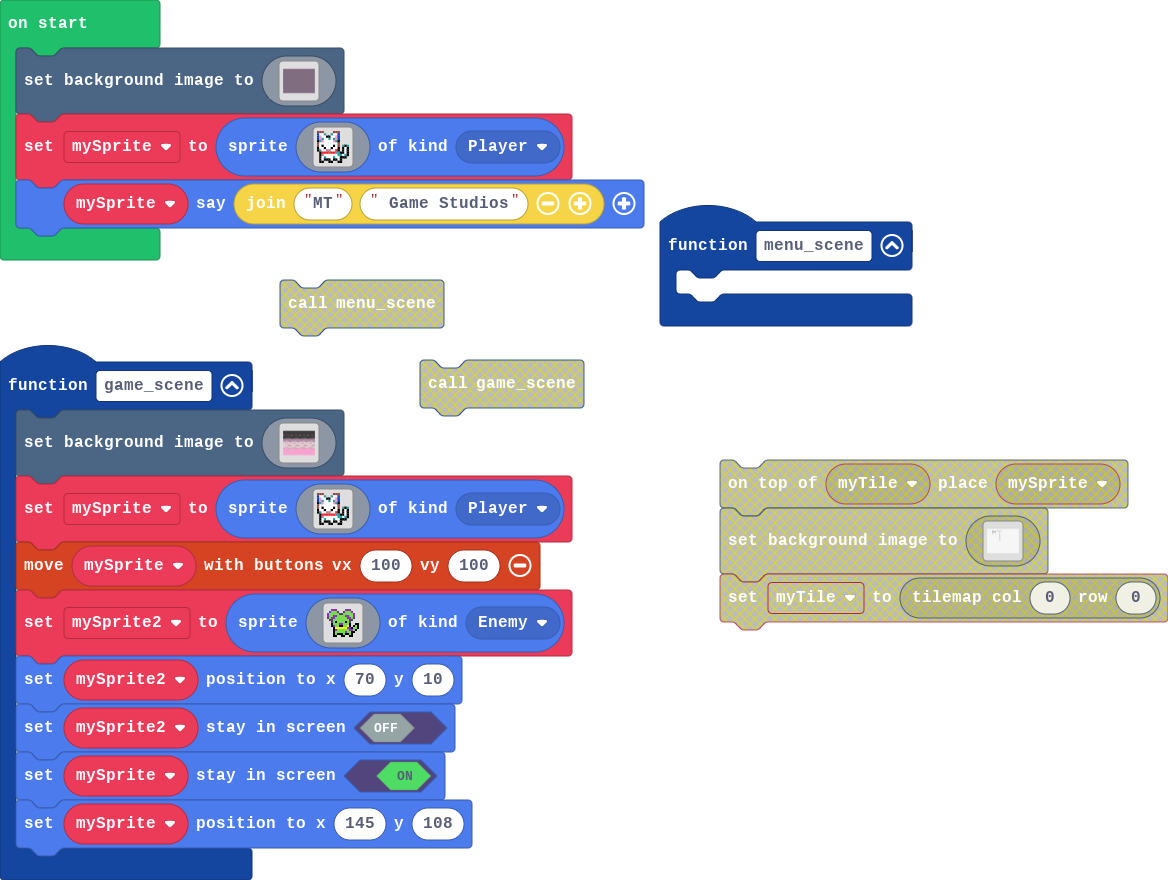
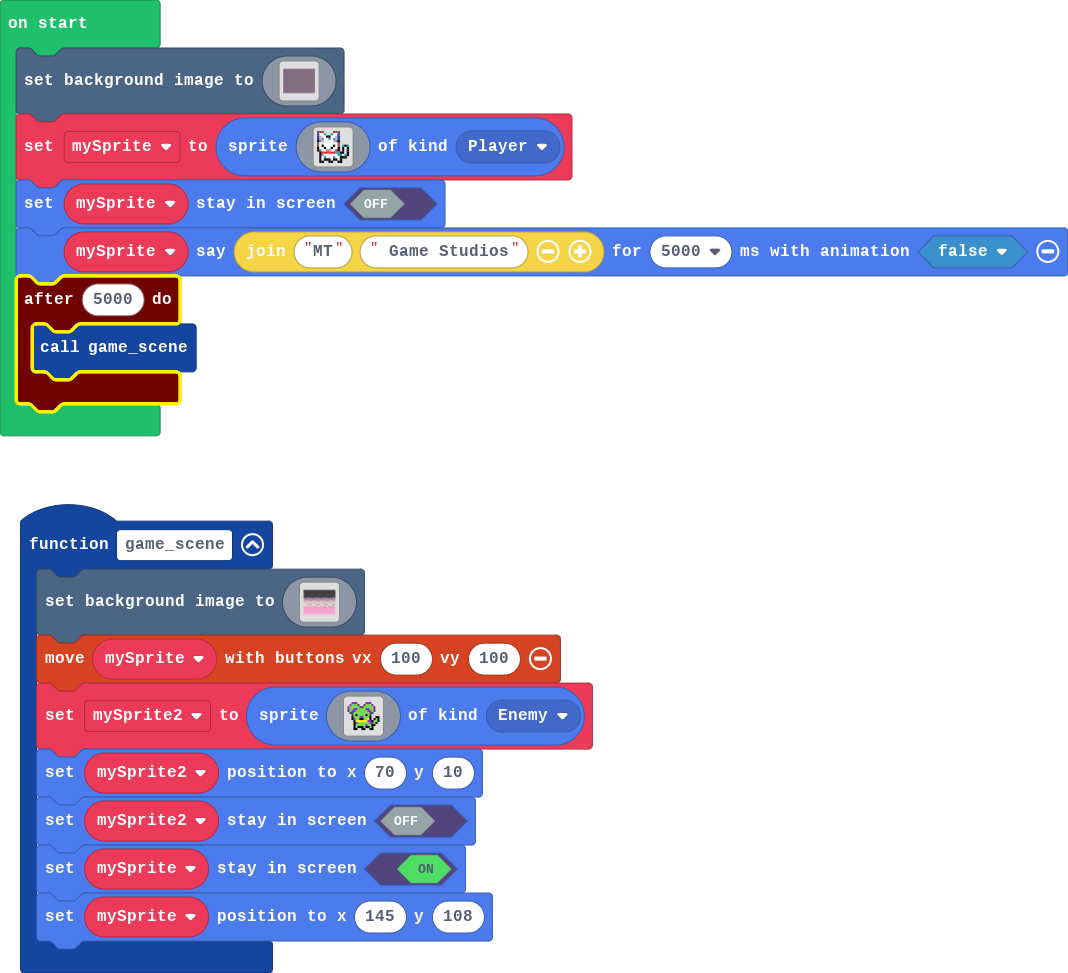
added new creen

diff --git a/main.ts b/main.ts
@@ -1,6 +1,3 @@
-function menu_scene () {
-	
-}
 function game_scene () {
     scene.setBackgroundImage(img`
         ffffffffffffffffffffffffffffffffffffffffffffffffffffffffffffffffffffffffffffffffffffffffffffffffffffffffffffffffffffffffffffffffffffffffffffffffffffffffffffffff
@@ -124,22 +121,6 @@ function game_scene () {
         3333333333333333333333333333333333333333333333333333333333333333333333333333333333333333333333333333333333333333333333333333333333333333333333333333333333333333
         3333333333333333333333333333333333333333333333333333333333333333333333333333333333333333333333333333333333333333333333333333333333333333333333333333333333333333
         `)
-    mySprite = sprites.create(img`
-        e e e . . . . e e e . . . . 
-        8 1 1 6 . . 6 1 1 8 . . . . 
-        8 3 1 1 f f 1 1 3 8 . . . . 
-        8 3 6 1 1 6 1 6 3 8 . . . . 
-        f 6 3 1 1 1 1 3 6 f . . . . 
-        e 1 1 1 1 1 1 1 1 e . . . . 
-        e 1 f 1 1 1 1 f 1 e . 6 f 6 
-        f 1 1 f 1 1 f 1 1 f . f 1 f 
-        f 6 1 1 b b 1 1 2 f . f 1 f 
-        . f 2 2 2 2 2 2 6 6 f f 1 f 
-        . f b 1 1 1 1 1 1 6 6 1 6 f 
-        . f 1 6 1 1 1 6 1 1 f f f . 
-        . f 1 f f f 1 f f 1 f . . . 
-        . f f . . f f . . f f . . . 
-        `, SpriteKind.Player)
     controller.moveSprite(mySprite, 100, 100)
     mySprite2 = sprites.create(img`
         . . a a a . . . . a a a . . . . 
@@ -302,4 +283,8 @@ mySprite = sprites.create(img`
     . f 1 f f f 1 f f 1 f . . . 
     . f f . . f f . . f f . . . 
     `, SpriteKind.Player)
-mySprite.sayText("MT" + " Game Studios")
+mySprite.setStayInScreen(false)
+mySprite.sayText("MT" + " Game Studios", 5000, false)
+timer.after(5000, function () {
+    game_scene()
+})
